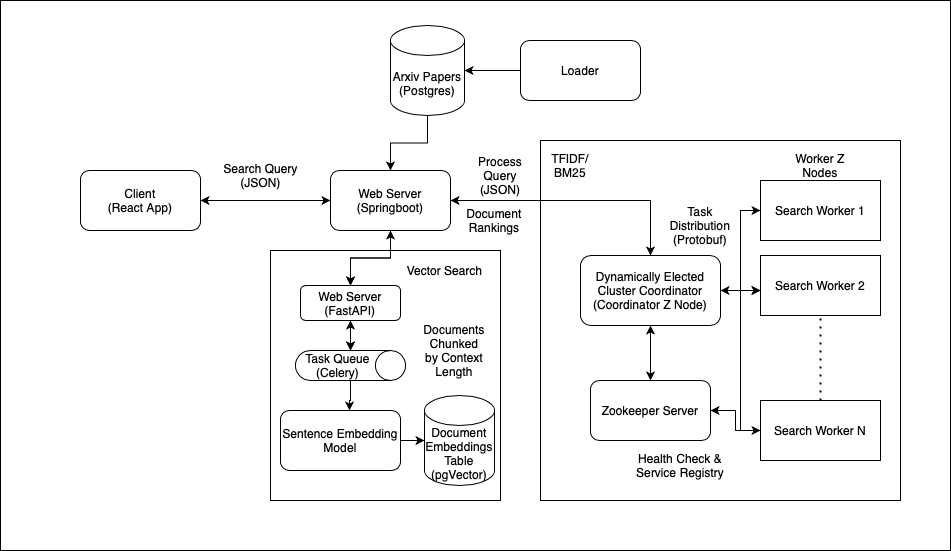
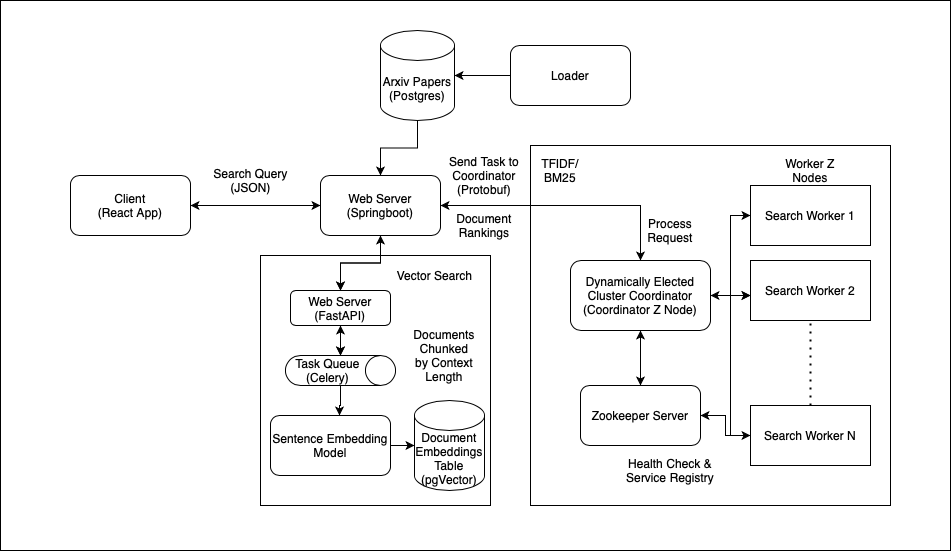
docs

diff --git a/README.md b/README.md
@@ -1,22 +1,52 @@
-# arxiv-sanity-xl
+# Arxiv Sanity XL
+
+Arxiv Sanity with bells and whistles.
+
+A distributed search engine that helps researchers find and get recommendations on latest arxiv research papers. Leverates TF-IDF, BM25, and Vector Approximate Nearest Neighbour matching algorithms to identify closest semantic match to user search query.
+
+#### Components
+- Backend:
+  - Arxiv Sanity XL backend consists of 3 main modules:
+      - core: Springboot+protobuf server, handles request routing across services.
+      - embedding_service: FastAPI+Celery service, handling requests for sentence embedding generation.
+      - backend: Zookeeper service, distributes TFIDF and BM25 computation tasks across workers.
+- Client: React frontend web application.
+- Databases:
+    - Postgres, pgVector: Stores research papers, metadata, user preferences, and embeddings.
+    - Redis: Acts as celery broker and backend for handling embedding api requests.
 
 #### Architecture
 ![alt text](https://github.com/k-pratyush/arxiv-sanity-xl/blob/main/docs/architecture.png?raw=true)
 
 #### Leader Election Protocol
-- TODO
+- Coordinator/ Leader is decided based on:
+    - start time - The first node to register to Zookeeper becomes the coordinator.
+    - All backend nodes are Zookeeper watchers - Every node that gets registered to zookeeper watches and health-checks one previous node for downtime (like a daisy chain). If the node is down, the watcher notifies zookeeper for leader check and re-election if required.
 
-#### Requirements
-- TODO
+#### Build Project [WIP]
+
+- proto compile: /Users/pratyushkerhalkar/Downloads/protoc-27-2/bin/protoc -I src/main/java/ --java_out=src/main/java/com/pratyush/docsearch/model/ src/main/java/com/pratyush/docsearch/model/search_cluster.proto
+- proto compile: /Users/pratyushkerhalkar/Downloads/protoc-27-2/bin/protoc -I src/main/java/ --java_out=src/main/java/ src/main/java/com/pratyush/core/model/search_cluster.proto
+
+#### TODO
+- [x] ~~Routing Server - Process & Recommendations~~
+- [x] ~~Model worker queue~~
+- [x] ~~UI~~
+- [ ] Improve UI (xD)
+- [ ] Scraper Daemon
+- [ ] Dockerize project
+- [ ] API, Setup Docs
+- [ ] Setup Github Actions
+- [ ] Deploy (Oracle cloud?)
+
+#### Future Improvements
+- [ ] Implement pagination
+- [ ] Paper recommendations
+- [ ] Dynamically fetch search coordinator from registry
+- [ ] Query sanitization
 
 #### Credits
 - Michael Pogrebinsky - Course on distributed systems
 - Andrej Karpathy - Arxiv Sanity
 
-#### TODO
-- [ ] Routing Server - Process & Recommendations
-- [ ] UI
-- [ ] Model worker queue
-- [ ] Deploy (Oracle cloud?)
-- [ ] Scraper Daemon
-- [ ] Implement pagination
+-----------

diff --git a/docs/api_docs.md b/docs/api_docs.md
@@ -1,0 +1,61 @@
+Rough Design
+
+Search Service:
+  Search with Query:
+   options
+   - Vector: Query DB
+   - tfidf, bm25:
+     Steps:
+       - Send search query to coordinator
+       - Coordinator identifies document count in DB, and number of active workers
+       - Creates Task for each worker with document ids to compute for
+       - Collects and accumulates results from workers
+       - Sends back to the search service
+
+    searchcontroller -> coordinator:
+        search query
+        get all paper ids
+        count of papers
+
+    coordinator -> worker:
+        split all ids into batches(tasks),
+        send tasks to worker
+
+    worker queries the DB for the given IDS, computes TFIDF
+
+    worker -> coordinator:
+        document name
+        document url
+        document id
+        score for each id
+
+    coordinator -> searchcontroller:
+        IDs and their respective scores,
+        document names
+        document urls
+        document ids
+
+
+ * Pagination
+ 
+Document Service:
+ * Homepage:
+ * 	- Get latest N papers
+ * 	- Most liked/saved papers
+ * 	- Recommended reads
+ * 	- Custom section: top reading lists
+ * 	- Share papers
+ * When logged in:
+ * 	- save papers
+
+User Service:
+ * Register as User: login, signup
+ * While logged in:
+ * - Preferences: add/update preferences
+ * - User dashboard:
+ * 		- get user recommendations
+ * 		- Save papers to reading list
+ * 		- Liked papers
+
+----------------------------------------
+
